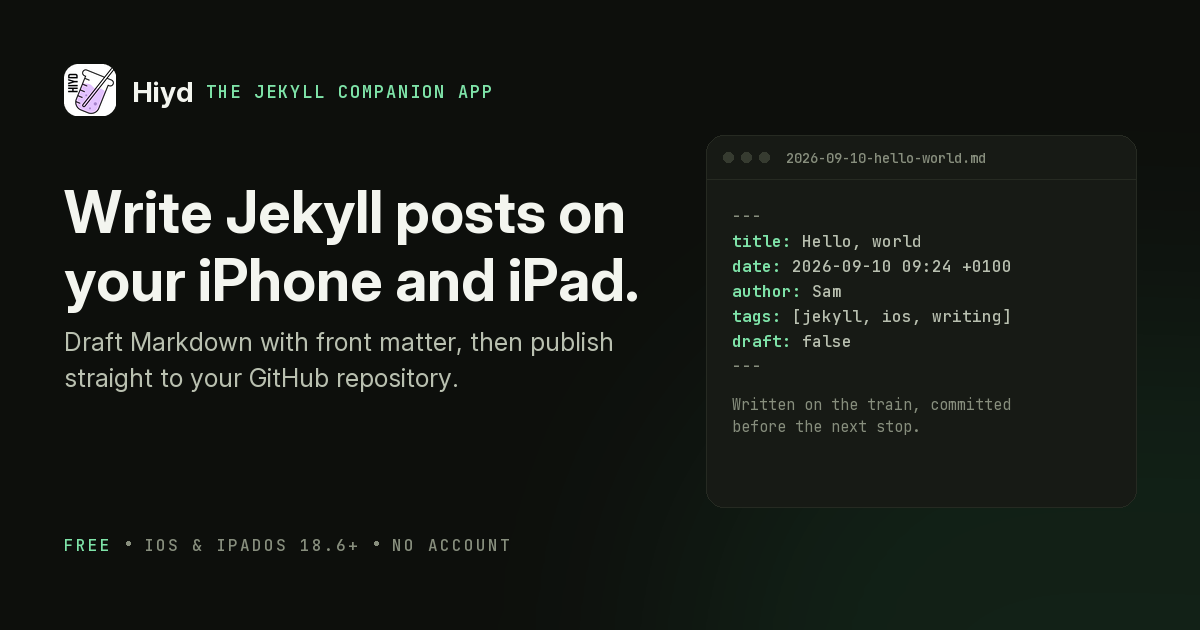
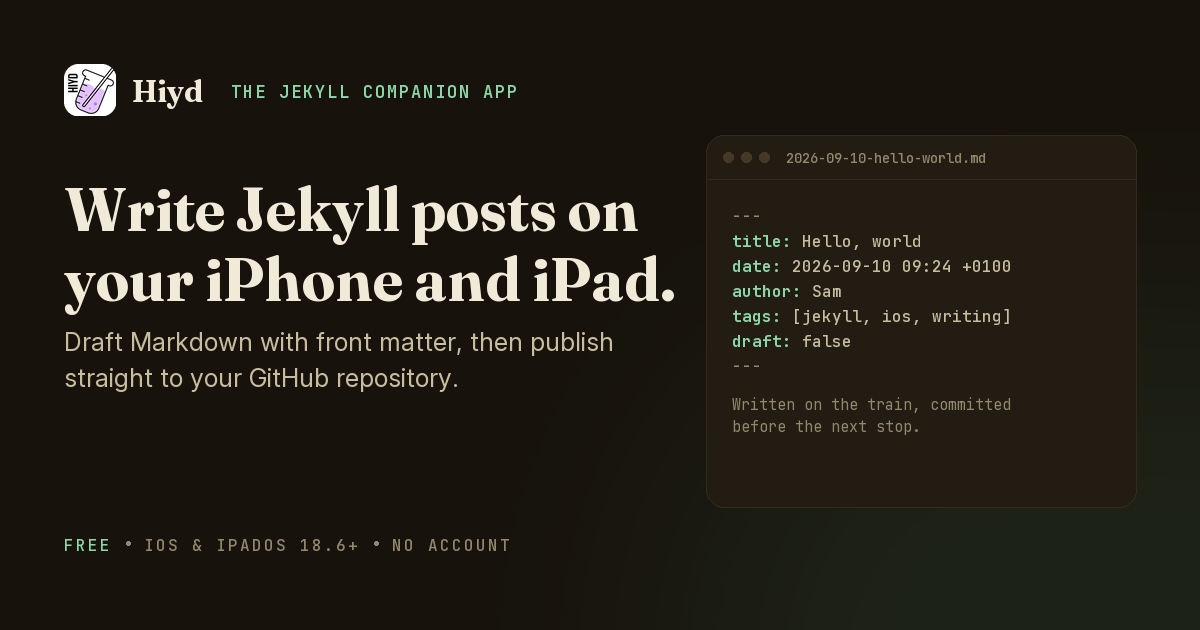
Visual refresh: move off the generic dark/emerald AI-template look
The redesign had settled into a very recognisable "AI coding agent"
palette — near-black background, neon emerald accent, Inter
everywhere, gradient-blob glows, everything in heavily-rounded cards.
Replaced it with a warmer, more editorial identity built around the
app's own purpose (writing/quoting):

- Palette: warm paper background and ink instead of cold off-white/
  near-black, a deeper pine green accent (still the app icon's hue,
  just less neon), tighter corner radii. Same structure in dark mode,
  warm brown-black instead of green-black.
- Typography: added Fraunces (serif, variable) for all headings and
  the wordmark; body copy stays Inter, code/eyebrows stay JetBrains
  Mono. The serif headings are the single biggest de-templating move.
- Removed the radial gradient-blob glow behind the hero screenshot —
  replaced with a large Fraunces quotation mark watermark, since the
  whole app is about capturing/writing quotes and posts.
- Regenerated assets/og-card.png to match (scripts/generate-og-card.py
  now uses Fraunces for the headline/wordmark and the new palette).

Also, as requested:
- Store badges are now real official-style badges: a white pill with
  the actual Apple glyph (black, matching Apple's own badge style) and
  the actual multi-colour Google Chrome logo, "Download on the App
  Store" / "Available in the Chrome Web Store". Deliberately fixed
  white/black regardless of light or dark mode, like real badge
[…]

Changed region(s): [[0.0308, 0.2714, 0.5858, 0.4825], [0.0925, 0.1206, 0.4317, 0.181]]

diff --git a/assets/css/main.css b/assets/css/main.css
@@ -1,46 +1,49 @@
 /* =========================================================================
    Hiyd — design system
-   Fresh / modern / minimal. Light + dark via prefers-color-scheme.
+   Warm, editorial and print-inspired: paper tones, a deep pine-green ink
+   accent, and a serif display face for headings — built for a writing app,
+   not a generic dark-mode SaaS template. Light + dark via prefers-color-scheme.
    ========================================================================= */
 
-@import url('https://fonts.googleapis.com/css2?family=Inter:wght@400;500;600;700&family=JetBrains+Mono:wght@400;500&display=swap');
+@import url('https://fonts.googleapis.com/css2?family=Fraunces:opsz,wght@9..144,600;9..144,700&family=Inter:wght@400;500;600;700&family=JetBrains+Mono:wght@400;500&display=swap');
 
 :root {
-  --bg:          #fbfbf9;
-  --bg-sunk:     #f2f3ef;
-  --panel:       #ffffff;
-  --ink:         #10130f;
-  --ink-soft:    #4b5145;
-  --ink-faint:   #6f766a;
-  --line:        #e5e6df;
-  --line-strong: #d3d5c9;
-  --accent:      #12924a;
-  --accent-ink:  #0c6c37;
-  --accent-wash: #e7f4ec;
-  --focus:       #12924a;
-  --radius:      14px;
-  --radius-lg:   22px;
-  --shadow-sm:   0 1px 2px rgba(16, 19, 15, .06), 0 1px 3px rgba(16, 19, 15, .04);
-  --shadow-md:   0 14px 40px rgba(16, 19, 15, .10);
+  --bg:          #f8f4e9;
+  --bg-sunk:     #efe8d5;
+  --panel:       #fffdf6;
+  --ink:         #221d15;
+  --ink-soft:    #5c5341;
+  --ink-faint:   #8a8069;
+  --line:        #e5dcc3;
+  --line-strong: #d3c6a3;
+  --accent:      #1f6d46;
+  --accent-ink:  #17532f;
+  --accent-wash: #e6efe2;
+  --focus:       #1f6d46;
+  --radius:      10px;
+  --radius-lg:   16px;
+  --shadow-sm:   0 1px 2px rgba(34, 29, 21, .06), 0 1px 3px rgba(34, 29, 21, .05);
+  --shadow-md:   0 14px 36px rgba(34, 29, 21, .12);
   --maxw:        1080px;
   --font-sans:   'Inter', -apple-system, BlinkMacSystemFont, 'Segoe UI', Roboto, sans-serif;
+  --font-display:'Fraunces', 'Iowan Old Style', Georgia, serif;
   --font-mono:   'JetBrains Mono', ui-monospace, SFMono-Regular, Menlo, monospace;
 }
 
 @media (prefers-color-scheme: dark) {
   :root {
-    --bg:          #0d0f0c;
-    --bg-sunk:     #131611;
-    --panel:       #171a15;
-    --ink:         #f3f5ef;
-    --ink-soft:    #b9c0b0;
-    --ink-faint:   #878e7d;
-    --line:        #262a22;
-    --line-strong: #363b30;
-    --accent:      #3fd07f;
-    --accent-ink:  #7ee3a8;
-    --accent-wash: #16241b;
-    --focus:       #3fd07f;
+    --bg:          #17130c;
+    --bg-sunk:     #1d1810;
+    --panel:       #221c13;
+    --ink:         #f2ead9;
+    --ink-soft:    #c8bd9f;
+    --ink-faint:   #94886c;
+    --line:        #332a1a;
+    --line-strong: #453824;
+    --accent:      #57b57f;
+    --accent-ink:  #8dd6a8;
+    --accent-wash: #1e2a20;
+    --focus:       #57b57f;
     --shadow-sm:   0 1px 2px rgba(0, 0, 0, .4);
     --shadow-md:   0 18px 50px rgba(0, 0, 0, .5);
   }
@@ -72,10 +75,10 @@ a:hover { text-decoration: underline; }
   border-radius: 4px;
 }
 
-h1, h2, h3, h4 { line-height: 1.15; letter-spacing: -0.02em; font-weight: 700; }
-h1 { font-size: clamp(2.3rem, 6vw, 3.6rem); }
-h2 { font-size: clamp(1.6rem, 3.5vw, 2.3rem); }
-h3 { font-size: 1.18rem; letter-spacing: -0.01em; }
+h1, h2, h3, h4 { font-family: var(--font-display); line-height: 1.1; letter-spacing: -0.01em; font-weight: 700; }
+h1 { font-size: clamp(2.4rem, 6vw, 3.75rem); }
+h2 { font-size: clamp(1.7rem, 3.5vw, 2.4rem); }
+h3 { font-size: 1.22rem; font-weight: 600; }
 
 code, kbd, pre, samp { font-family: var(--font-mono); font-size: .9em; }
 :not(pre) > code {
@@ -141,22 +144,26 @@ kbd {
 .btn--sm { padding: 9px 16px; font-size: .92rem; }
 
 .store-badges { display: flex; flex-wrap: wrap; gap: 14px; }
+/* Fixed white/black regardless of theme, like Apple's and Google's own badge
+   artwork — these are brand marks, not themed UI, so they shouldn't invert. */
 .store-badge {
   display: inline-flex;
-  flex-direction: column;
-  justify-content: center;
-  min-width: 190px;
-  padding: 11px 20px;
-  border-radius: 14px;
-  border: 1px solid var(--line-strong);
-  background: var(--panel);
-  color: var(--ink);
-  box-shadow: var(--shadow-sm);
+  align-items: center;
+  gap: 12px;
+  min-width: 210px;
+  padding: 10px 20px 10px 16px;
+  border-radius: 12px;
+  border: 1px solid #dcdcdc;
+  background: #ffffff;
+  color: #1d1d1f;
+  box-shadow: 0 1px 2px rgba(0,0,0,.08), 0 8px 20px rgba(0,0,0,.10);
   transition: transform .12s ease, box-shadow .12s ease;
 }
-.store-badge:hover { text-decoration: none; transform: translateY(-2px); box-shadow: var(--shadow-md); }
-.store-badge .small { font-size: .72rem; color: var(--ink-faint); letter-spacing: .02em; }
-.store-badge .large { font-size: 1.12rem; font-weight: 700; letter-spacing: -0.01em; }
+.store-badge:hover { text-decoration: none; transform: translateY(-2px); box-shadow: 0 2px 4px rgba(0,0,0,.1), 0 14px 28px rgba(0,0,0,.16); }
+.store-badge svg { flex: none; width: 30px; height: 30px; }
+.store-badge .text { display: flex; flex-direction: column; }
+.store-badge .small { font-size: .72rem; color: #6e6e73; letter-spacing: .01em; }
+.store-badge .large { font-size: 1.08rem; font-weight: 700; letter-spacing: -0.01em; color: #1d1d1f; }
 
 /* --- header --------------------------------------------------------- */
 .site-header {
@@ -176,7 +183,7 @@ kbd {
   margin-inline: auto;
   padding-inline: 22px;
 }
-.brand { display: inline-flex; align-items: center; gap: 10px; font-weight: 700; color: var(--ink); letter-spacing: -0.01em; }
+.brand { display: inline-flex; align-items: center; gap: 10px; font-family: var(--font-display); font-weight: 700; font-size: 1.05rem; color: var(--ink); letter-spacing: -0.01em; }
 .brand:hover { text-decoration: none; }
 .brand img { width: 30px; height: 30px; border-radius: 8px; }
 .site-nav { margin-left: auto; display: flex; align-items: center; gap: 26px; }
@@ -234,16 +241,23 @@ kbd {
 .hero__media { position: relative; display: flex; justify-content: center; }
 .hero__media img {
   width: min(300px, 78vw);
-  border-radius: 38px;
+  border-radius: 30px;
   border: 1px solid var(--line);
   box-shadow: var(--shadow-md);
 }
+/* A quiet editorial touch instead of a SaaS gradient glow: an oversized
+   quotation mark, since Hiyd's whole job is quoting/writing posts. */
 .hero__media::after {
-  content: "";
+  content: "\201C";
   position: absolute;
-  inset: auto -20% -30% -20%;
-  height: 60%;
-  background: radial-gradient(50% 50% at 50% 50%, var(--accent-wash), transparent 70%);
+  top: -0.4em;
+  left: 50%;
+  transform: translateX(-58%);
+  font-family: var(--font-display);
+  font-size: 13rem;
+  line-height: 1;
+  color: var(--line-strong);
+  opacity: .55;
   z-index: -1;
 }
 @media (max-width: 860px) {

diff --git a/_includes/store-badges.html b/_includes/store-badges.html
@@ -1,0 +1,34 @@
+{%- comment -%}
+  Renders the two store badges. Pass a unique `suffix` when including this
+  more than once on a page, so the Chrome logo's gradient <defs> ids don't
+  collide (two SVGs with duplicate ids in one document is invalid HTML,
+  even though — since the gradients are identical — it renders fine either way).
+{%- endcomment -%}
+<div class="store-badges">
+  <a class="store-badge" href="{{ site.app_store_url }}">
+    <svg viewBox="0 0 24 24" aria-hidden="true"><path fill="#000" d="M12.152 6.896c-.948 0-2.415-1.078-3.96-1.04-2.04.027-3.91 1.183-4.961 3.014-2.117 3.675-.546 9.103 1.519 12.09 1.013 1.454 2.208 3.09 3.792 3.039 1.52-.065 2.09-.987 3.935-.987 1.831 0 2.35.987 3.96.948 1.637-.026 2.676-1.48 3.676-2.948 1.156-1.688 1.636-3.325 1.662-3.415-.039-.013-3.182-1.221-3.22-4.857-.026-3.04 2.48-4.494 2.597-4.559-1.429-2.09-3.623-2.324-4.39-2.376-2-.156-3.675 1.09-4.61 1.09zM15.53 3.83c.843-1.012 1.4-2.427 1.245-3.83-1.207.052-2.662.805-3.532 1.818-.78.896-1.454 2.338-1.273 3.714 1.338.104 2.715-.688 3.559-1.701"/></svg>
+    <span class="text">
+      <span class="small">Download on the</span>
+      <span class="large">App Store</span>
+    </span>
+  </a>
+  <a class="store-badge" href="{{ site.chrome_store_url }}">
+    <svg viewBox="0 0 48 48" aria-hidden="true">
+      <defs>
+        <linearGradient id="hiyd-chrome-a{{ include.suffix }}" x1="3.2173" y1="15" x2="44.7812" y2="15" gradientUnits="userSpaceOnUse"><stop offset="0" stop-color="#d93025"/><stop offset="1" stop-color="#ea4335"/></linearGradient>
+        <linearGradient id="hiyd-chrome-b{{ include.suffix }}" x1="20.7219" y1="47.6791" x2="41.5039" y2="11.6837" gradientUnits="userSpaceOnUse"><stop offset="0" stop-color="#fcc934"/><stop offset="1" stop-color="#fbbc04"/></linearGradient>
+        <linearGradient id="hiyd-chrome-c{{ include.suffix }}" x1="26.5981" y1="46.5015" x2="5.8161" y2="10.506" gradientUnits="userSpaceOnUse"><stop offset="0" stop-color="#1e8e3e"/><stop offset="1" stop-color="#34a853"/></linearGradient>
+      </defs>
+      <circle cx="24" cy="23.9947" r="12" fill="#fff"/>
+      <path fill="none" d="M3.2154,36A24,24,0,1,0,12,3.2154,24,24,0,0,0,3.2154,36ZM34.3923,18A12,12,0,1,1,18,13.6077,12,12,0,0,1,34.3923,18Z"/>
+      <path fill="url(#hiyd-chrome-a{{ include.suffix }})" d="M24,12H44.7812a23.9939,23.9939,0,0,0-41.5639.0029L13.6079,30l.0093-.0024A11.9852,11.9852,0,0,1,24,12Z"/>
+      <circle cx="24" cy="24" r="9.5" fill="#1a73e8"/>
+      <path fill="url(#hiyd-chrome-b{{ include.suffix }})" d="M34.3913,30.0029,24.0007,48A23.994,23.994,0,0,0,44.78,12.0031H23.9989l-.0025.0093A11.985,11.985,0,0,1,34.3913,30.0029Z"/>
+      <path fill="url(#hiyd-chrome-c{{ include.suffix }})" d="M13.6086,30.0031,3.218,12.006A23.994,23.994,0,0,0,24.0025,48L34.3931,30.0029l-.0067-.0068a11.9852,11.9852,0,0,1-20.7778.007Z"/>
+    </svg>
+    <span class="text">
+      <span class="small">Available in the</span>
+      <span class="large">Chrome Web Store</span>
+    </span>
+  </a>
+</div>

diff --git a/index.html b/index.html
@@ -16,16 +16,7 @@ show_faq_schema: true
         let Hiyd build the YAML front matter, then save it to iCloud Drive or
         commit it straight to your repository.
       </p>
-      <div class="store-badges">
-        <a class="store-badge" href="{{ site.app_store_url }}">
-          <span class="small">Download on the</span>
-          <span class="large">App Store</span>
-        </a>
-        <a class="store-badge" href="{{ site.chrome_store_url }}">
-          <span class="small">Available in the</span>
-          <span class="large">Chrome Web Store</span>
-        </a>
-      </div>
+      {% include store-badges.html suffix="-hero" %}
       <p class="hero__meta">Free · No account · iOS &amp; iPadOS {{ site.min_ios_version }}+ · Made in the UK</p>
     </div>
 
@@ -201,15 +192,6 @@ the next stop.</span></pre>
   <div class="wrap">
     <h2>Keep your Jekyll blog moving</h2>
     <p class="section-lead" style="margin-inline:auto">Free on the App Store. No account, no tracking, your files in your iCloud Drive.</p>
-    <div class="store-badges">
-      <a class="store-badge" href="{{ site.app_store_url }}">
-        <span class="small">Download on the</span>
-        <span class="large">App Store</span>
-      </a>
-      <a class="store-badge" href="{{ site.chrome_store_url }}">
-        <span class="small">Available in the</span>
-        <span class="large">Chrome Web Store</span>
-      </a>
-    </div>
+    {% include store-badges.html suffix="-cta" %}
   </div>
 </section>

diff --git a/_includes/footer.html b/_includes/footer.html
@@ -39,6 +39,7 @@
           <li><a href="{{ '/terms/' | relative_url }}">Terms</a></li>
           <li><a href="{{ '/security/' | relative_url }}">Security</a></li>
           <li><a href="{{ '/sitemap.xml' | relative_url }}">Sitemap</a></li>
+          <li><a href="https://thechels.uk/projects">Other Apps ↗</a></li>
         </ul>
       </div>
 

diff --git a/scripts/generate-og-card.py b/scripts/generate-og-card.py
@@ -5,8 +5,10 @@ og:image / twitter:image (wired up in _config.yml).
 
 Usage:
     python3 -m venv .venv && .venv/bin/pip install Pillow
-    # Fonts aren't committed to the repo; fetch the two variable TTFs used here:
+    # Fonts aren't committed to the repo; fetch the three variable TTFs used here:
     mkdir -p scripts/fonts
+    curl -sL -o scripts/fonts/Fraunces.ttf \
+        "https://raw.githubusercontent.com/google/fonts/main/ofl/fraunces/Fraunces%5BSOFT,WONK,opsz,wght%5D.ttf"
     curl -sL -o scripts/fonts/Inter.ttf \
         "https://raw.githubusercontent.com/google/fonts/main/ofl/inter/Inter%5Bopsz,wght%5D.ttf"
     curl -sL -o scripts/fonts/JetBrainsMono.ttf \
@@ -29,15 +31,15 @@ LOGO_PATH = ROOT / "assets" / "hiyd-logo-90.png"
 W, H = 1200, 630
 
 # Dark-mode palette from assets/css/main.css
-BG = (13, 15, 12)
-PANEL = (23, 26, 21)
-INK = (243, 245, 239)
-INK_SOFT = (185, 192, 176)
-INK_FAINT = (135, 142, 125)
-LINE = (38, 42, 34)
-LINE_STRONG = (54, 59, 48)
-ACCENT = (63, 208, 127)
-ACCENT_INK = (126, 227, 168)
+BG = (23, 19, 12)
+PANEL = (34, 28, 19)
+INK = (242, 234, 217)
+INK_SOFT = (200, 189, 159)
+INK_FAINT = (148, 136, 108)
+LINE = (51, 42, 26)
+LINE_STRONG = (69, 56, 36)
+ACCENT = (87, 181, 127)
+ACCENT_INK = (141, 214, 168)
 
 HEADLINE = "Write Jekyll posts on your iPhone and iPad."
 SUBHEAD = ["Draft Markdown with front matter, then publish", "straight to your GitHub repository."]
@@ -61,6 +63,14 @@ MARGIN = 64
 def inter(size, weight=400, opsz=None):
     f = ImageFont.truetype(str(FONT_DIR / "Inter.ttf"), size)
     f.set_variation_by_axes([opsz or min(32, max(14, size)), weight])
+    return f
+
+
+def fraunces(size, weight=700, opsz=None):
+    f = ImageFont.truetype(str(FONT_DIR / "Fraunces.ttf"), size)
+    # axes order: [Optical Size, Weight, Softness, Wonky] — keep Soft/Wonky at
+    # 0 to match the non-wonky static instances loaded on the site itself.
+    f.set_variation_by_axes([opsz or min(144, max(9, size)), weight, 0, 0])
     return f
 
 
@@ -124,19 +134,20 @@ def main():
     logo = logo.resize((logo_size, logo_size), Image.LANCZOS)
     img.paste(logo, (MARGIN, MARGIN), logo)
 
-    wm_font = inter(28, 700, 24)
-    draw.text((MARGIN + logo_size + 16, MARGIN + (logo_size - 28) // 2 - 2), "Hiyd", font=wm_font, fill=INK)
+    wm_font = fraunces(30, 700)
+    wm_x = MARGIN + logo_size + 16
+    wm_x2 = draw_measured(draw, (wm_x, MARGIN + (logo_size - 30) // 2 - 3), "Hiyd", wm_font, INK)
 
     eyebrow_font = mono(17, 600)
-    ex = MARGIN + logo_size + 90
+    ex = wm_x2 + 28
     tracked_text(draw, (ex, MARGIN + (logo_size - 17) // 2 - 1), "THE JEKYLL COMPANION APP", eyebrow_font, ACCENT_INK, tracking=2)
 
     # Headline + subhead
-    head_font = inter(58, 700, 32)
-    y = 176
-    for line in wrap(draw, HEADLINE, head_font, 630):
+    head_font = fraunces(60, 700, 72)
+    y = 172
+    for line in wrap(draw, HEADLINE, head_font, 640):
         draw.text((MARGIN, y), line, font=head_font, fill=INK)
-        y += 68
+        y += 70
 
     sub_font = inter(25, 400, 20)
     y += 14
